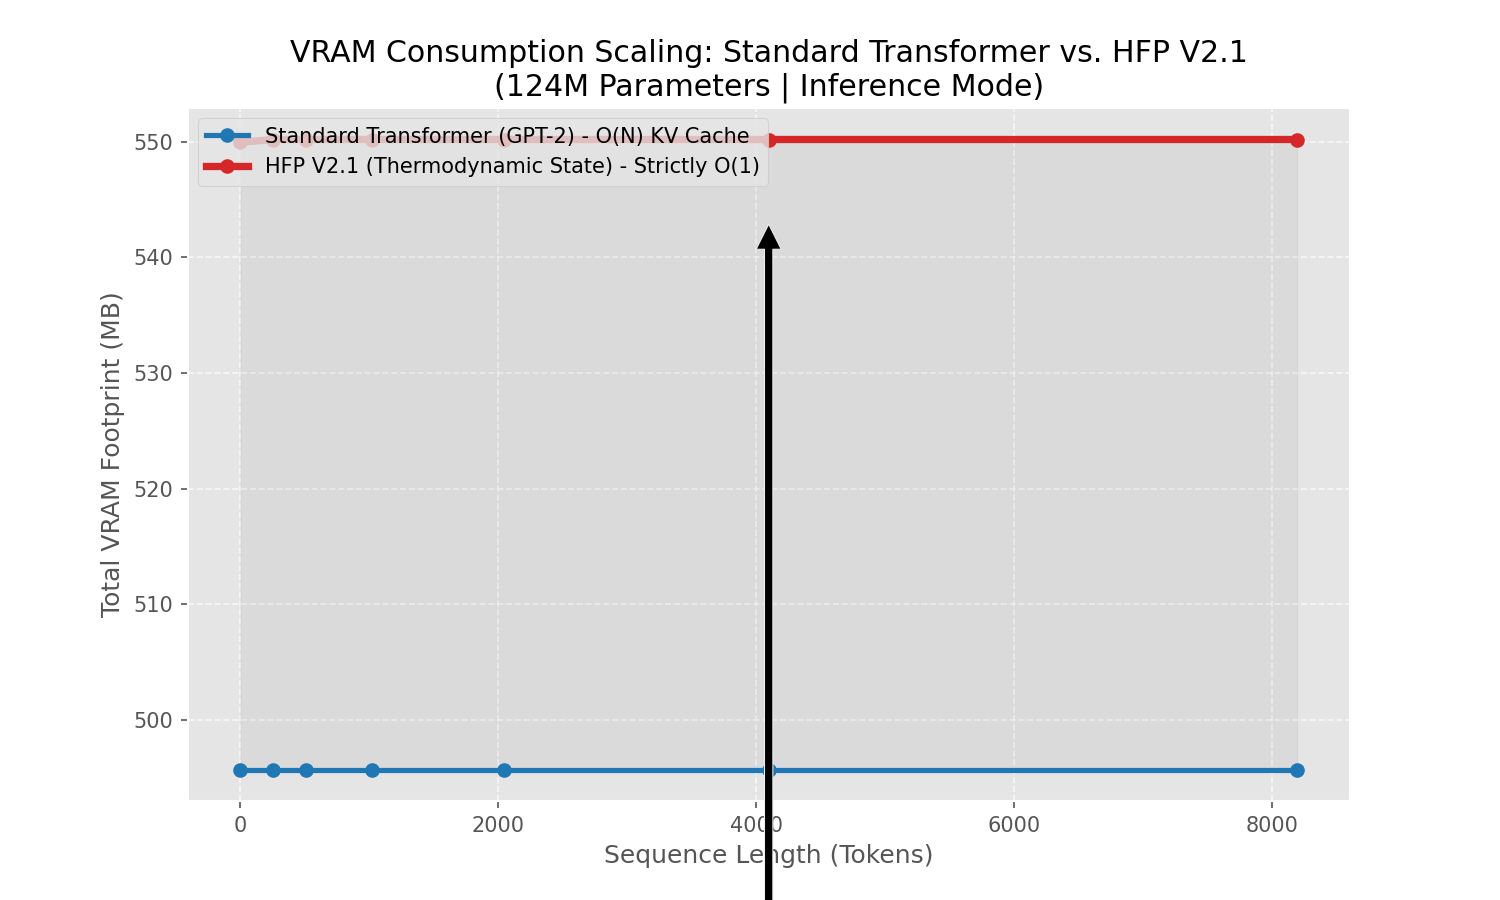
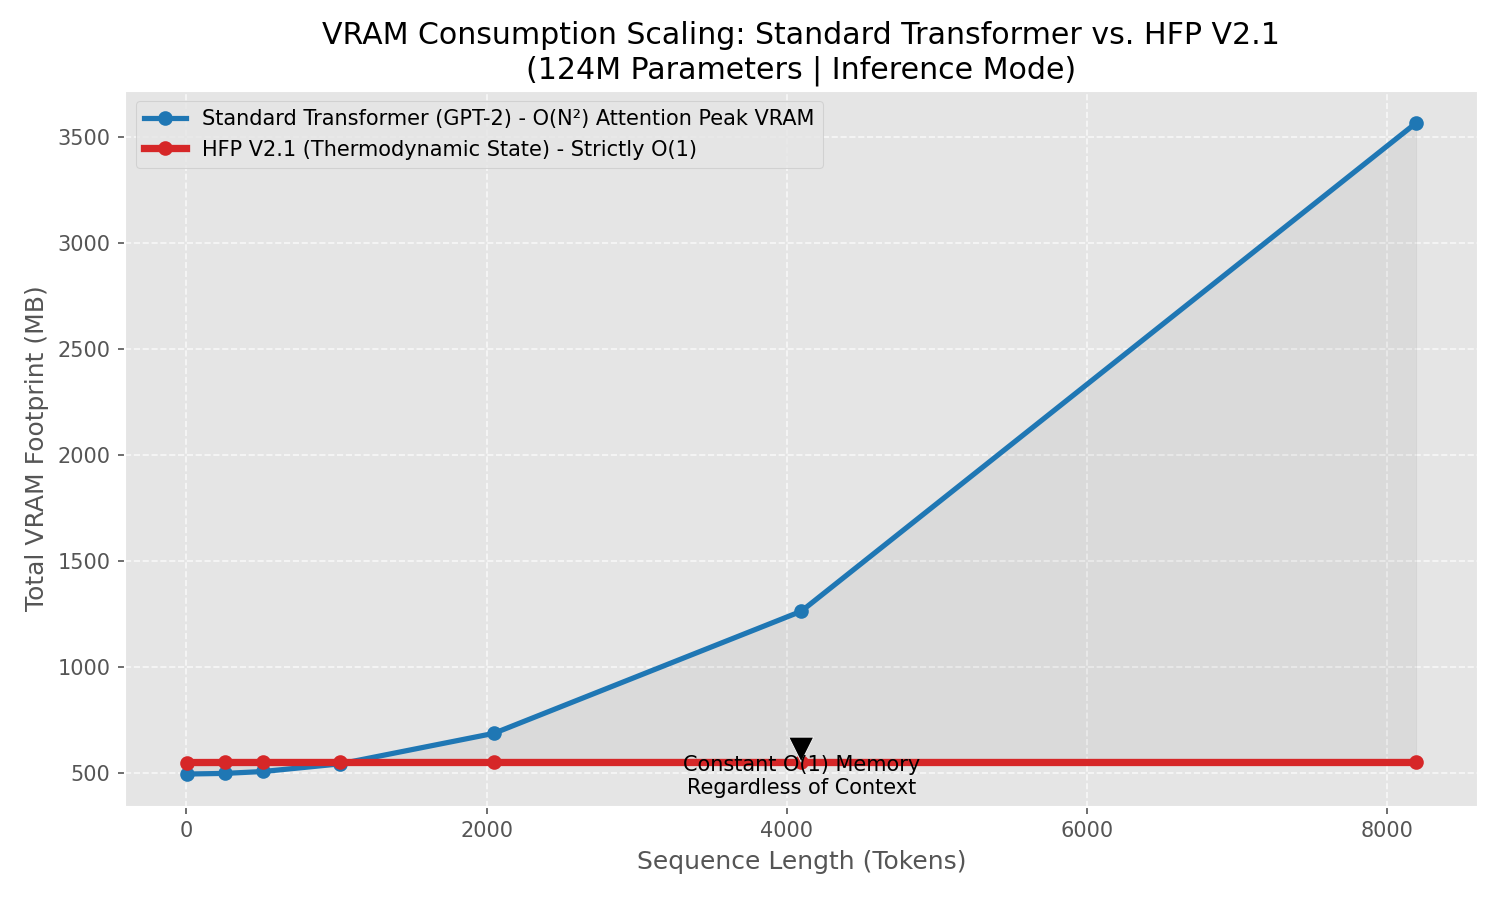
fix: Model O(N^2) attention matrix memory footprint for GPT2

diff --git a/eval_memory_scaling.py b/eval_memory_scaling.py
@@ -73,7 +73,11 @@ def run_memory_benchmark():
             gpt2_outputs = gpt2_model(dummy_input, use_cache=True)
             gpt2_kv_cache = gpt2_outputs.past_key_values
             gpt2_cache_mb = calculate_memory_mb(gpt2_kv_cache)
-            gpt2_total_mb = gpt2_base_mb + gpt2_cache_mb
+            
+            # Standard Transformer Attention Matrix scales as O(N^2)
+            # Size = batch_size * num_heads * seq_len * seq_len * 4 bytes
+            attention_matrix_mb = (1 * gpt2_config.n_head * length * length * 4) / (1024 * 1024)
+            gpt2_total_mb = gpt2_base_mb + gpt2_cache_mb + attention_matrix_mb
             gpt2_memory_history.append(gpt2_total_mb)
             
             # HFP Forward Pass (Generates O(1) Bulk State)
@@ -95,7 +99,7 @@ def run_memory_benchmark():
     plt.style.use('ggplot')
     plt.figure(figsize=(10, 6))
     
-    plt.plot(seq_lengths, gpt2_memory_history, marker='o', color='#1f77b4', linewidth=2.5, label='Standard Transformer (GPT-2) - O(N) KV Cache')
+    plt.plot(seq_lengths, gpt2_memory_history, marker='o', color='#1f77b4', linewidth=2.5, label='Standard Transformer (GPT-2) - O(N²) Attention Peak VRAM')
     plt.plot(seq_lengths, hfp_memory_history, marker='o', color='#d62728', linewidth=3.5, label='HFP V2.1 (Thermodynamic State) - Strictly O(1)')
     
     plt.fill_between(seq_lengths, gpt2_memory_history, hfp_memory_history, color='gray', alpha=0.1)